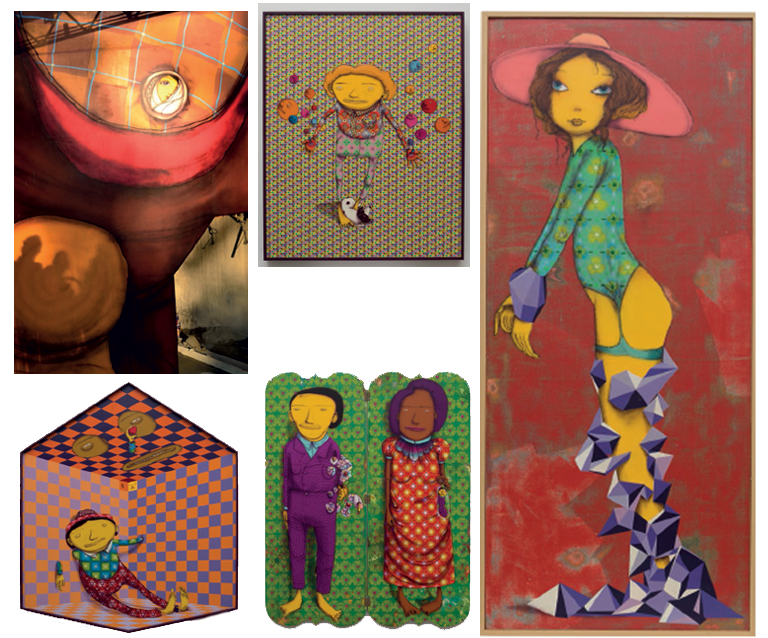
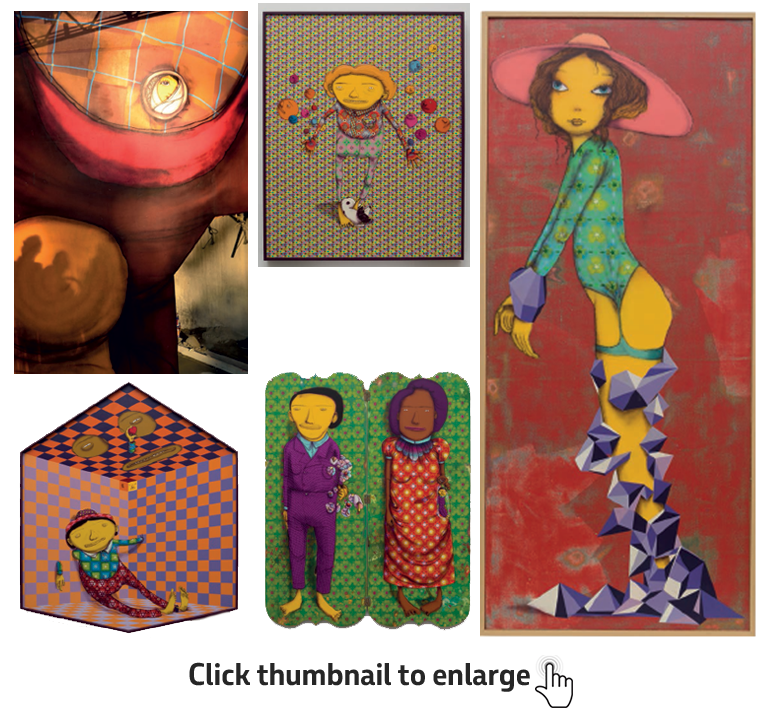
Artbook
adicion de manita a galerias de fotos y ajustes de titulos mas bold

diff --git a/artBook/artbook.html b/artBook/artbook.html
@@ -191,23 +191,23 @@
 							
 
 						 	<div class="galleryBtn" >
-								<a class="Gallery ui-link cboxElement" href="imgs/foto1-1.png" title="“My Feet are Floating”, 2013">
+								<a class="Gallery ui-link cboxElement" href="imgs/foto1-1.png" title="“My Feet are Floating”, 2013 / Photo: Eduardo Ortega">
                                 <img src="imgs/cuadros.png"/>
                                 </a>
-								<a class="Gallery ui-link cboxElement" href="imgs/foto1-2.png" title="“Got Married to Check How it is”, 2013"></a>
-								<a class="Gallery ui-link cboxElement" href="imgs/foto1-3.png" title="“Since Then”, 2013"></a>
-								<a class="Gallery ui-link cboxElement" href="imgs/foto1-4.png" title="“Portrait”, 2013"></a>
-								<a class="Gallery ui-link cboxElement" href="imgs/foto1-5.png" title="Detail of panel produced for the Vancouver Biennale"></a>
+								<a class="Gallery ui-link cboxElement" href="imgs/foto1-2.png" title="“Got Married to Check How it is”, 2013 / Photo: Eduardo Ortega"></a>
+								<a class="Gallery ui-link cboxElement" href="imgs/foto1-3.png" title="“Since Then”, 2013 / Photo: Eduardo Ortega"></a>
+								<a class="Gallery ui-link cboxElement" href="imgs/foto1-4.png" title="“Portrait”, 2013 / Photo: Eduardo Ortega"></a>
+								<a class="Gallery ui-link cboxElement" href="imgs/foto1-5.png" title="Detail of panel produced for the Vancouver Biennale / Photo: Vancouver Biennale"></a>
 							</div>
                             
                             
-                            <div class="galleryBtn" style="top:5150px !important;">
-								<a class="Gallery2 ui-link cboxElement" href="imgs/foto2-1.png" title="The multicolor silos of the Canadian Giants series contrast with the gray landscape of the industrial district of Granville.">
+                            <div class="galleryBtn" style="top:5110px !important;">
+								<a class="Gallery2 ui-link cboxElement" href="imgs/foto2-1.png" title="The multicolor silos of the Canadian Giants series contrast with the gray landscape of the industrial district of Granville. / Photos: Vancouver Biennale">
                                 <img src="imgs/cuadros_2.png"/>
                                 </a>
-								<a class="Gallery2 ui-link cboxElement" href="imgs/foto2-2.png" title="The multicolor silos of the Canadian Giants series contrast with the gray landscape of the industrial district of Granville."></a>
-								<a class="Gallery2 ui-link cboxElement" href="imgs/foto2-3.png" title="The multicolor silos of the Canadian Giants series contrast with the gray landscape of the industrial district of Granville."></a>
-								<a class="Gallery2 ui-link cboxElement" href="imgs/foto2-4.png" title="OSGEMEOS at work in their studio"></a>
+								<a class="Gallery2 ui-link cboxElement" href="imgs/foto2-2.png" title="The multicolor silos of the Canadian Giants series contrast with the gray landscape of the industrial district of Granville. / Photos: Vancouver Biennale"></a>
+								<a class="Gallery2 ui-link cboxElement" href="imgs/foto2-3.png" title="The multicolor silos of the Canadian Giants series contrast with the gray landscape of the industrial district of Granville. / Photos: Vancouver Biennale"></a>
+								<a class="Gallery2 ui-link cboxElement" href="imgs/foto2-4.png" title="OSGEMEOS at work in their studio / Photo: OSGEMEOS"></a>
 							</div> 
 							
 							<div class="toTop">

diff --git a/profile/css/profile.css b/profile/css/profile.css
@@ -30,8 +30,8 @@
 }
 
 .title h1 {
-	color: #000;
-	font-family: "petrobras_sanslight";
+	color: #ffcd1c;
+	font-family: 'petrobras_sansbold' !important;
 	font-size: 5.6em;
 	left: 4%;
 	position: absolute;
@@ -39,6 +39,7 @@
 
 	top: 30%;
 	width: 90%;
+	font-weight:bold;
 	
 }
 

diff --git a/artBook/css/artBook.css b/artBook/css/artBook.css
@@ -13,13 +13,14 @@
 }
 .title h1 {
 	color:#fff;
-	font-family: 'petrobras_sanslight';
+	font-family: 'petrobras_sansbold';
 	position: absolute;
 	font-size: 5.6em;
 	top: 29%;
 	left:10%; 
 	width: 90%;
 	text-shadow: 0px 1px 0px #000;
+	font-weight:bold;
 	
 }
 .Big {
